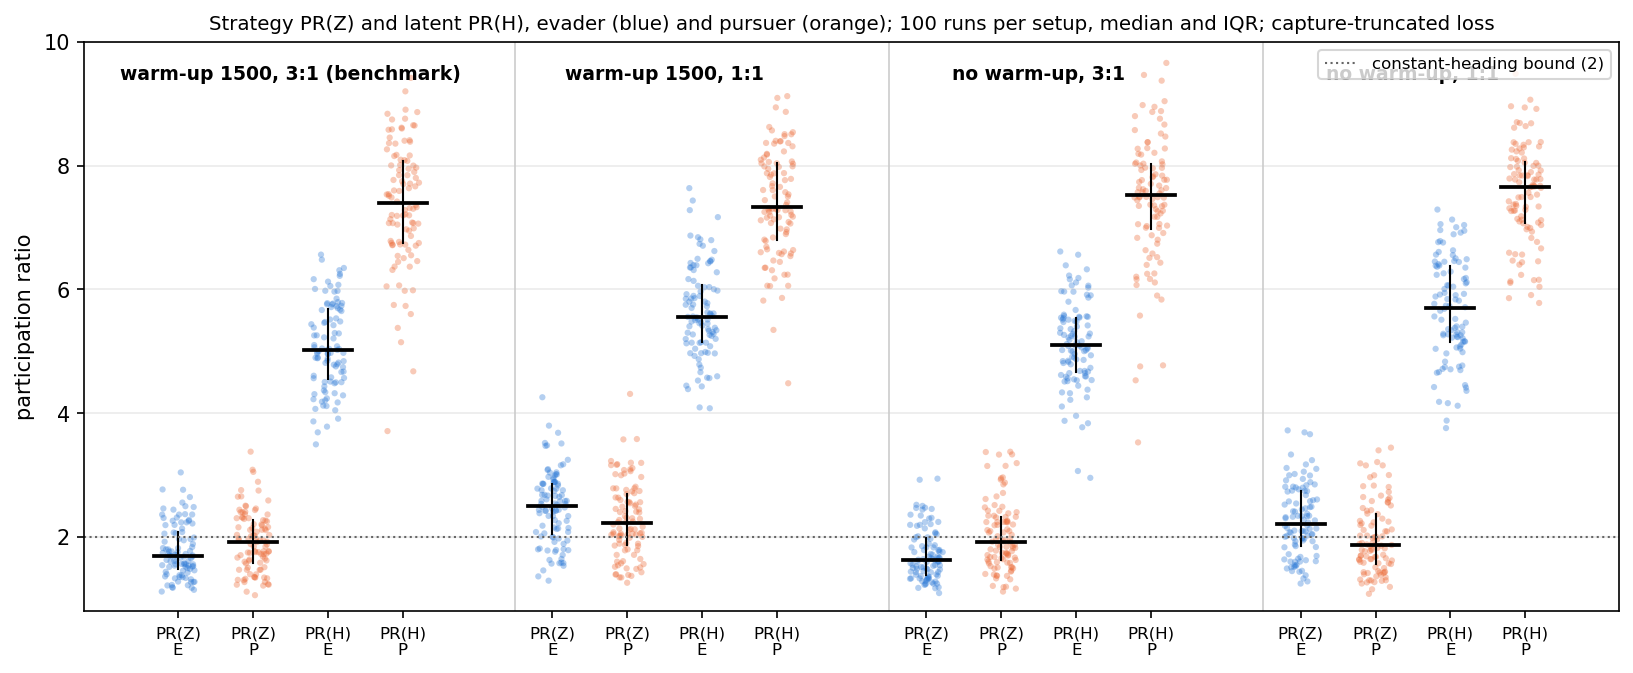
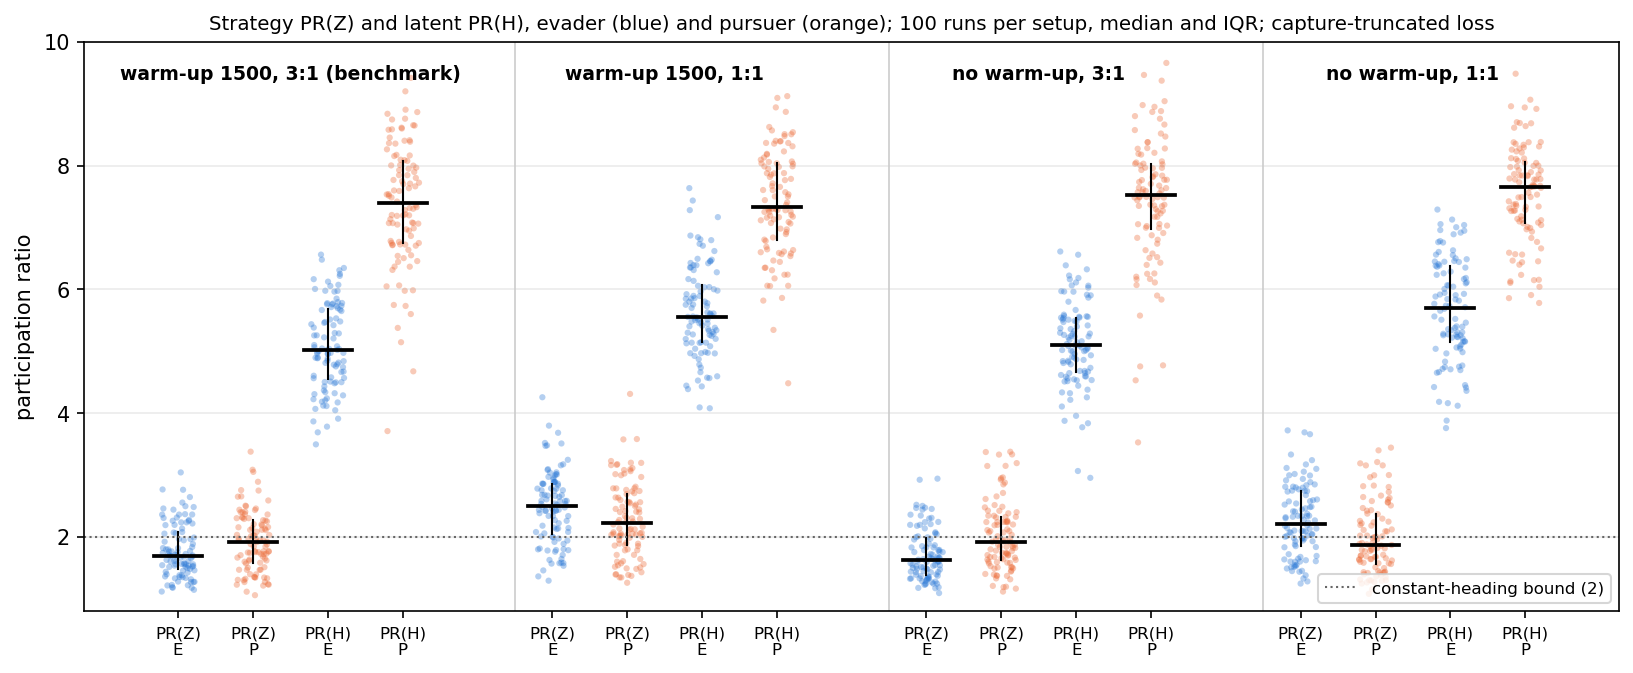
protocol_split: legend placement

Changed region(s): [[0.812, 0.8425, 0.9994, 0.9049], [0.812, 0.0624, 0.9994, 0.1248]]

diff --git a/torch_actor/protocol_split.py b/torch_actor/protocol_split.py
@@ -111,7 +111,7 @@ def main():
     ax.set_xticks(xpos); ax.set_xticklabels(xlab, fontsize=8); ax.set_ylim(0.8, 10); ax.set_ylabel("participation ratio")
     ax.set_title("Strategy PR(Z) and latent PR(H), evader (blue) and pursuer (orange); 100 runs per setup, "
                  "median and IQR; capture-truncated loss", fontsize=9.5)
-    ax.legend(fontsize=8, loc="upper right"); ax.grid(alpha=0.25, axis="y")
+    ax.legend(fontsize=8, loc="lower right"); ax.grid(alpha=0.25, axis="y")
     fig.tight_layout()
     for ext in ("png", "pdf"):
         fig.savefig(os.path.join(FIG, f"protocol_split_pr.{ext}"), dpi=150, bbox_inches="tight")
